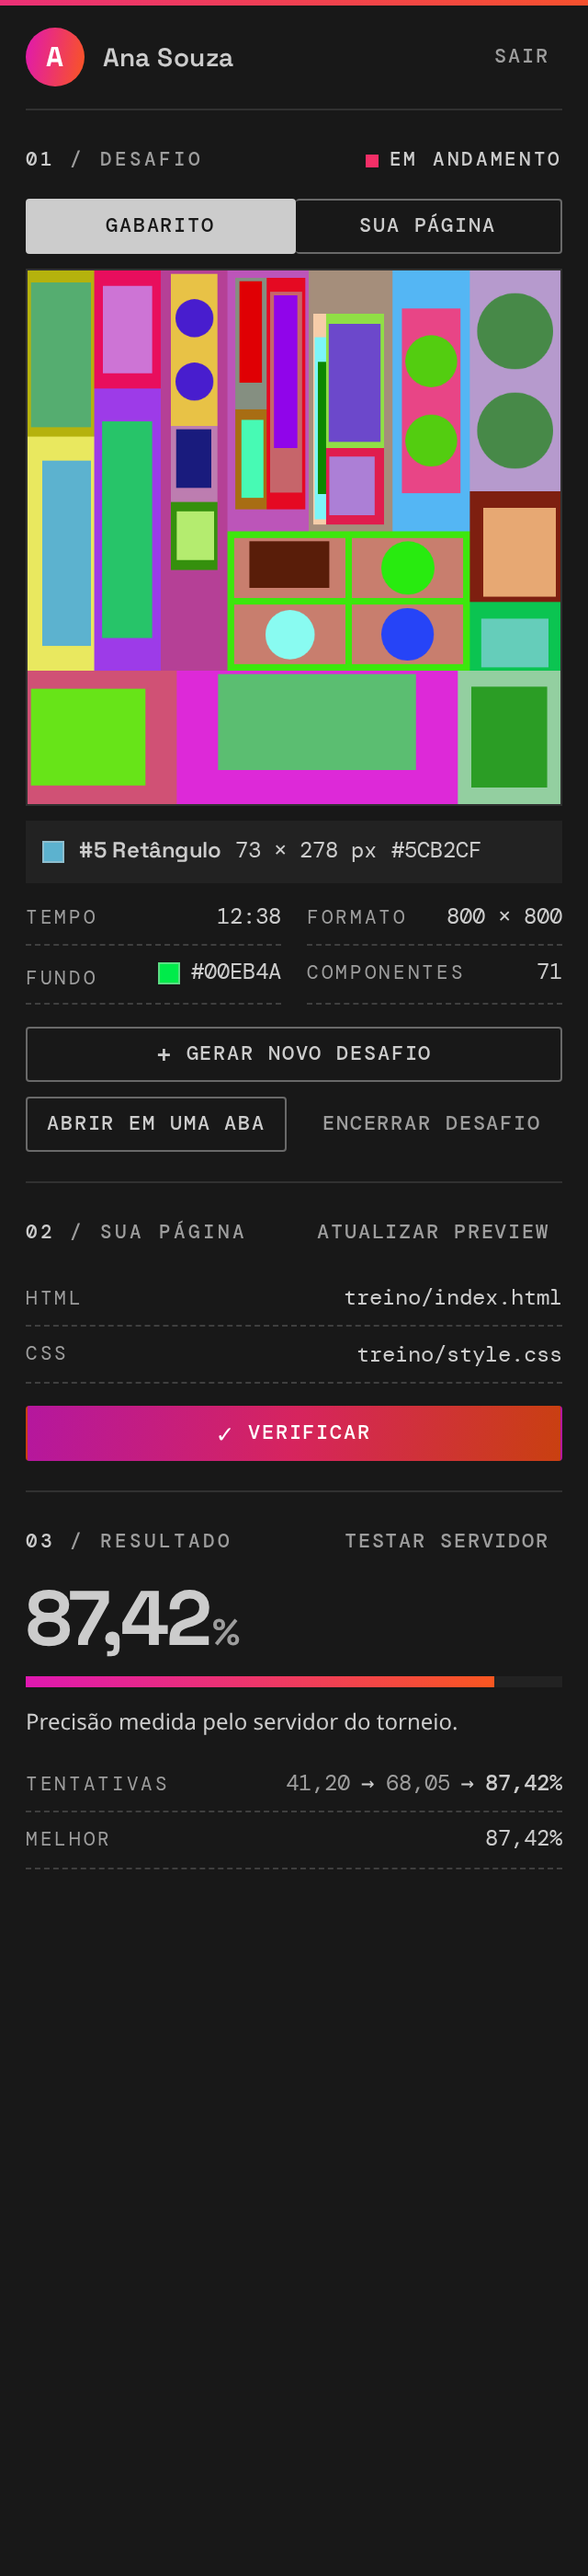
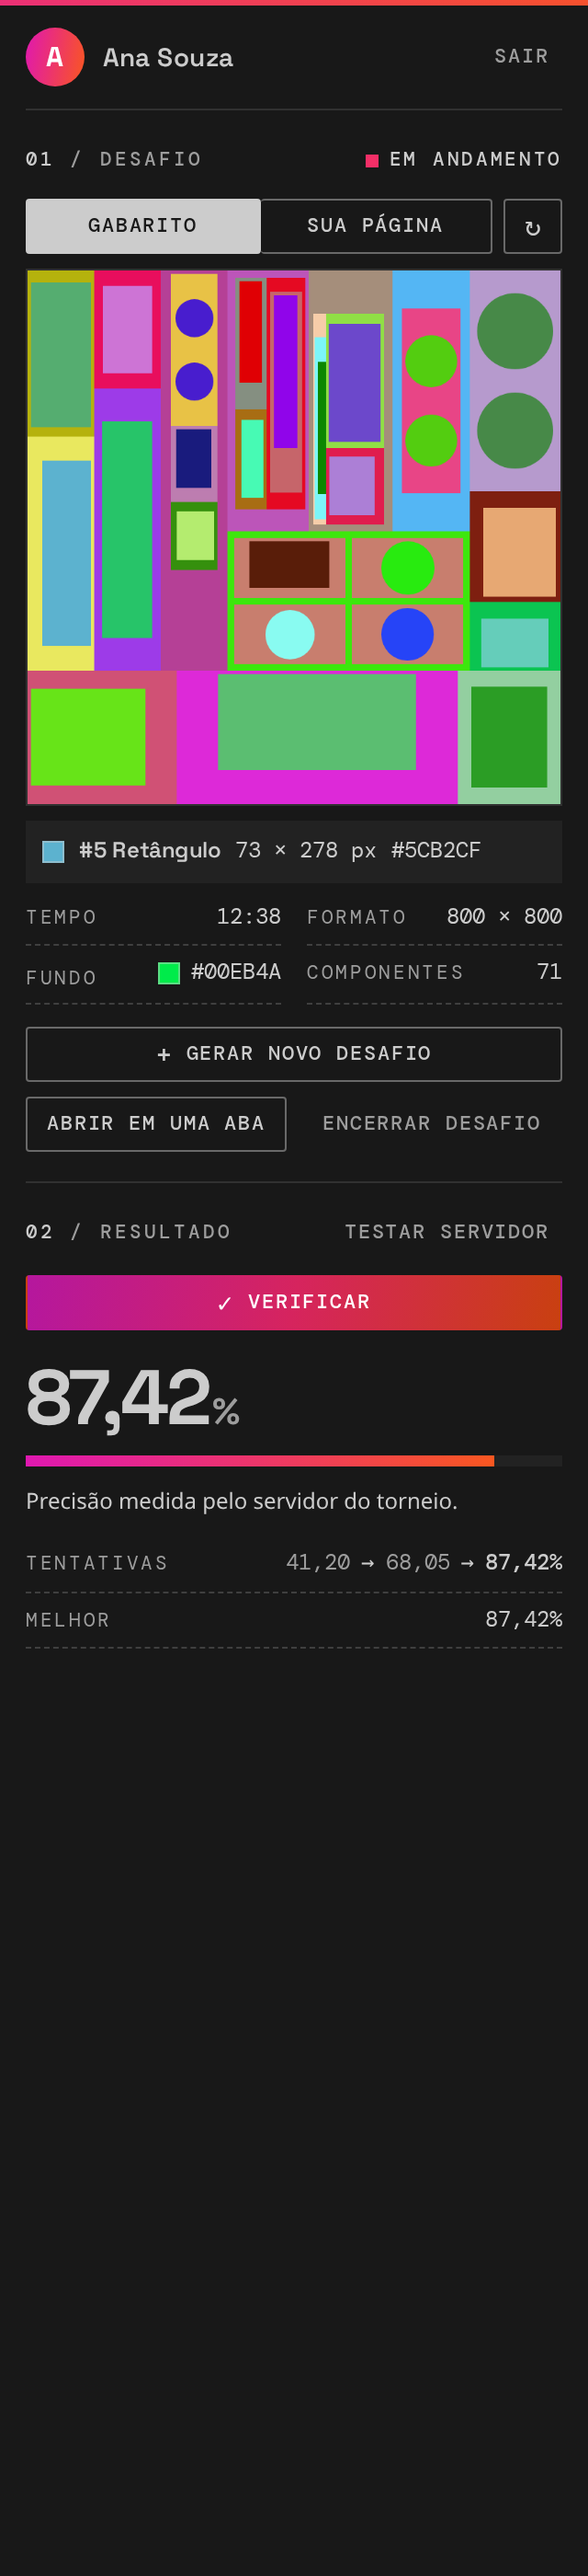
feat: a página do aluno atualiza enquanto ele digita
A página do aluno acompanha a digitação, meio segundo depois da última
tecla, sem precisar salvar. O Atualizar preview virou o ↻ ao lado de Sua
página, para quando demorar. As linhas com os caminhos de index.html e
style.css saíram: o Resultado só avisa quando falta um deles, e os caminhos
ficam na dica do botão Sua página.

diff --git a/src/web/webview/html.ts b/src/web/webview/html.ts
@@ -478,11 +478,26 @@ export function obterHtmlWebview(
        dois, no mesmo lugar, mostra onde eles diferem. */
     .vistas {
       display: flex;
+      gap: 6px;
       margin-bottom: 8px;
+    }
+
+    .vistas .modos {
+      flex: 1 1 auto;
+      display: flex;
     }
 
     .vistas .modo {
       flex: 1 1 0;
+    }
+
+    /* A página já atualiza enquanto o aluno digita; o botão é para quando
+       demorar. */
+    button.atualizar {
+      flex: 0 0 32px;
+      padding: 0;
+      font-size: 15px;
+      letter-spacing: 0;
     }
 
     .canvas-desafio .preview {
@@ -556,13 +571,9 @@ export function obterHtmlWebview(
       color: var(--texto);
     }
 
-    .caminho {
-      overflow: hidden;
-      text-overflow: ellipsis;
-      white-space: nowrap;
-    }
-
     .falta {
+      margin: 0 0 4px;
+      font-size: 12px;
       color: var(--erro);
     }
 
@@ -612,6 +623,18 @@ export function obterHtmlWebview(
 
     .nota {
       margin-bottom: 10px;
+    }
+
+    .nota.resultado {
+      margin-top: 16px;
+    }
+
+    .linha {
+      margin-top: 12px;
+    }
+
+    .nota.resultado + .linha {
+      margin-top: 0;
     }
 
     .valor-nota {
@@ -685,9 +708,12 @@ export function obterHtmlWebview(
       <h2 class="rotulo"><span class="numero">01</span> / Desafio</h2>
       <span class="selo" id="seloDesafio" data-estado="vazio">Sem desafio</span>
     </div>
-    <div class="modos vistas" id="vistas" role="group" aria-label="O que mostrar no quadro" hidden>
-      <button type="button" class="modo" data-vista="gabarito" aria-pressed="true">Gabarito</button>
-      <button type="button" class="modo" data-vista="pagina" aria-pressed="false">Sua página</button>
+    <div class="vistas" id="vistas" hidden>
+      <div class="modos" role="group" aria-label="O que mostrar no quadro">
+        <button type="button" class="modo" data-vista="gabarito" aria-pressed="true">Gabarito</button>
+        <button type="button" class="modo" id="botaoVistaPagina" data-vista="pagina" aria-pressed="false">Sua página</button>
+      </div>
+      <button type="button" id="botaoAtualizarPreview" class="secundario atualizar" title="Atualizar a sua página agora. Ela já atualiza sozinha enquanto você digita." aria-label="Atualizar a sua página">↻</button>
     </div>
     <div class="canvas-desafio" id="quadroDesafio" data-vista="gabarito">
       <canvas id="canvasAlvo" width="960" height="540"></canvas>
@@ -709,32 +735,26 @@ export function obterHtmlWebview(
     </div>
   </section>
 
-  <section class="bloco surge" style="--ordem: 2" aria-label="Sua página">
+  <section class="bloco surge" style="--ordem: 2" aria-label="Resultado">
     <div class="cabecalho">
-      <h2 class="rotulo"><span class="numero">02</span> / Sua página</h2>
-      <button id="botaoAtualizarPreview" class="discreto" title="Relê os arquivos sem salvar">Atualizar preview</button>
+      <h2 class="rotulo"><span class="numero">02</span> / Resultado</h2>
+      <button id="botaoTestarConexao" class="discreto" title="Confere a sessão no servidor">Testar servidor</button>
     </div>
-    <dl class="dados" id="listaWorkspace">
-      <div><dt>HTML</dt><dd id="arquivoHtml">--</dd></div>
-      <div><dt>CSS</dt><dd id="arquivoCss">--</dd></div>
-    </dl>
+    <div id="avisoArquivos" hidden>
+      <p class="falta" id="textoArquivos"></p>
+      <div class="acoes">
+        <button id="botaoCriarArquivos" class="largo secundario arquivos">Criar index.html e style.css</button>
+      </div>
+    </div>
     <div
       id="quadroAvaliacao"
       class="preview-avaliacao"
       aria-hidden="true"
     ></div>
     <div class="acoes">
-      <button id="botaoCriarArquivos" class="largo secundario arquivos" hidden>Criar index.html e style.css</button>
       <button id="botaoVerificar" class="largo principal" disabled><span class="simbolo" id="simboloVerificar" aria-hidden="true">✓</span>Verificar</button>
     </div>
-  </section>
-
-  <section class="bloco surge" style="--ordem: 3" aria-label="Resultado">
-    <div class="cabecalho">
-      <h2 class="rotulo"><span class="numero">03</span> / Resultado</h2>
-      <button id="botaoTestarConexao" class="discreto" title="Confere a sessão no servidor">Testar servidor</button>
-    </div>
-    <div class="nota" id="notaResultado" hidden>
+    <div class="nota resultado" id="notaResultado" hidden>
       <strong class="valor-nota" id="valorNota"></strong>
       <div class="barra-nota" aria-hidden="true"><span id="barraNota"></span></div>
     </div>

diff --git a/src/web/webview/app.ts b/src/web/webview/app.ts
@@ -107,8 +107,11 @@ const valorComponentes = document.getElementById(
 const detalheComponente = document.getElementById(
   "detalheComponente",
 ) as HTMLDivElement;
-const arquivoHtml = document.getElementById("arquivoHtml") as HTMLElement;
-const arquivoCss = document.getElementById("arquivoCss") as HTMLElement;
+const avisoArquivos = document.getElementById("avisoArquivos") as HTMLElement;
+const textoArquivos = document.getElementById("textoArquivos") as HTMLElement;
+const botaoVistaPagina = document.getElementById(
+  "botaoVistaPagina",
+) as HTMLButtonElement;
 const canvasPreviewAluno = document.getElementById(
   "canvasPreviewAluno",
 ) as HTMLCanvasElement;
@@ -519,40 +522,26 @@ function criarMedida(texto: string): HTMLSpanElement {
   return medida;
 }
 
-function renderizarArquivo(
-  campo: HTMLElement,
-  existe: boolean,
-  caminho: string,
-): void {
-  campo.classList.toggle("falta", !existe);
-  campo.title = existe ? caminho : "";
-  if (!existe) {
-    campo.textContent = "não encontrado";
-    return;
-  }
-
-  // O caminho inteiro fica na dica; aqui, só a pasta e o arquivo.
-  const curto = document.createElement("span");
-  curto.className = "caminho";
-  curto.textContent = caminho.split(/[\\/]/).filter(Boolean).slice(-2).join("/");
-  campo.replaceChildren(curto);
-}
-
 function renderizarWorkspace(
   resumoWorkspace: ResumoWorkspaceRecebido,
 ): void {
-  renderizarArquivo(
-    arquivoHtml,
-    resumoWorkspace.temArquivoHtml,
-    resumoWorkspace.caminhoHtml,
-  );
-  renderizarArquivo(
-    arquivoCss,
-    resumoWorkspace.temArquivoCss,
-    resumoWorkspace.caminhoCss,
-  );
-  botaoCriarArquivos.hidden =
-    resumoWorkspace.temArquivoHtml && resumoWorkspace.temArquivoCss;
+  // Os arquivos só aparecem quando falta algum; os caminhos ficam na dica
+  // do botão Sua página.
+  const faltando = [
+    resumoWorkspace.temArquivoHtml ? "" : "index.html",
+    resumoWorkspace.temArquivoCss ? "" : "style.css",
+  ].filter(Boolean);
+  avisoArquivos.hidden = faltando.length === 0;
+  textoArquivos.textContent =
+    faltando.length === 2
+      ? "Faltam index.html e style.css na pasta aberta."
+      : `Falta ${faltando[0]} na pasta aberta.`;
+  botaoVistaPagina.title = [
+    resumoWorkspace.temArquivoHtml ? resumoWorkspace.caminhoHtml : "",
+    resumoWorkspace.temArquivoCss ? resumoWorkspace.caminhoCss : "",
+  ]
+    .filter(Boolean)
+    .join("\n");
   try {
     const { largura, altura } = dimensoesDoDesafio();
     montarPaginaAluno(

diff --git a/src/web/provider/provedor-barra-lateral.ts b/src/web/provider/provedor-barra-lateral.ts
@@ -40,6 +40,8 @@ const CRIAR_DINAMICA = "Criar dinâmica de treino";
 const ABRIR_PASTA = "Abrir pasta";
 const VER_EXTENSOES = "Ver extensões";
 const CADASTRAR = "Cadastrar";
+// Espera depois da última tecla antes de redesenhar a página do aluno.
+const ESPERA_DIGITACAO_MS = 500;
 // Tamanho dos arquivos criados antes do primeiro desafio (o do gerador).
 const LARGURA_PADRAO = 800;
 const ALTURA_PADRAO = 800;
@@ -76,6 +78,8 @@ export class ProvedorBarraLateralFlexBox implements vscode.WebviewViewProvider {
 
   // Criada na primeira vez que o aluno abre o gabarito em uma aba.
   private painelGabarito?: PainelGabarito;
+
+  private atualizacaoAgendada?: ReturnType<typeof setTimeout>;
 
   // Precisões das correções do desafio atual, da primeira à última.
   private historicoNotas: number[] = [];
@@ -510,6 +514,18 @@ export class ProvedorBarraLateralFlexBox implements vscode.WebviewViewProvider {
     return resumo.temArquivoHtml || resumo.temArquivoCss
       ? resumo.htmlPreview
       : undefined;
+  }
+
+  /**
+   * A página do aluno acompanha a digitação: várias teclas seguidas viram uma
+   * só atualização, meio segundo depois da última.
+   */
+  public agendarAtualizacaoPreview(): void {
+    clearTimeout(this.atualizacaoAgendada);
+    this.atualizacaoAgendada = setTimeout(() => {
+      this.atualizacaoAgendada = undefined;
+      void this.atualizarPreviewWorkspace();
+    }, ESPERA_DIGITACAO_MS);
   }
 
   public async atualizarPreviewWorkspace(): Promise<void> {

diff --git a/src/web/test/suite/provedorBarraLateral.test.ts b/src/web/test/suite/provedorBarraLateral.test.ts
@@ -540,6 +540,22 @@ suite("Provedor da barra lateral", () => {
     assert.strictEqual(estadosBarra[estadosBarra.length - 1]?.precisao, undefined);
   });
 
+  test("junta as teclas seguidas numa só atualização da página do aluno", async () => {
+    const provedor = criarProvedorParaTeste([]);
+    let atualizacoes = 0;
+    provedor.atualizarPreviewWorkspace = async () => {
+      atualizacoes++;
+    };
+
+    provedor.agendarAtualizacaoPreview();
+    provedor.agendarAtualizacaoPreview();
+    provedor.agendarAtualizacaoPreview();
+    assert.strictEqual(atualizacoes, 0, "Não atualiza a cada tecla.");
+    await new Promise((resolver) => setTimeout(resolver, 700));
+
+    assert.strictEqual(atualizacoes, 1);
+  });
+
   test("reenvia a mesma página depois de uma correção que falhou", async () => {
     mockarConfiguracaoServidorValida();
     let correcoes = 0;

diff --git a/src/web/extension.ts b/src/web/extension.ts
@@ -70,6 +70,16 @@ export async function activate(context: vscode.ExtensionContext) {
         void provedor.atualizarPreviewWorkspace();
       }
     }),
+    // Sem precisar salvar: a página do aluno atualiza enquanto ele digita.
+    vscode.workspace.onDidChangeTextDocument((evento) => {
+      if (
+        evento.contentChanges.length > 0 &&
+        ehDocumentoDeTreino(evento.document) &&
+        authService.isAutenticado()
+      ) {
+        provedor.agendarAtualizacaoPreview();
+      }
+    }),
   );
 
   context.subscriptions.push(

diff --git a/src/web/webview/painelGabarito.ts b/src/web/webview/painelGabarito.ts
@@ -33,8 +33,8 @@ const DURACAO_SELECAO_MS = 2500;
 
 const AJUDA: Record<Modo, string> = {
   gabarito: "Clique num componente para destacá-lo e num valor para copiá-lo.",
-  sobreposto: "Arraste o controle para comparar. A sua página atualiza ao salvar.",
-  lado: "A sua página atualiza ao salvar.",
+  sobreposto: "Arraste o controle para comparar. A sua página atualiza enquanto você digita.",
+  lado: "A sua página atualiza enquanto você digita.",
 };
 
 const vscode = acquireVsCodeApi();

diff --git a/README.md b/README.md
@@ -18,7 +18,7 @@ O treino segue as condições do torneio: a extensão mostra as medidas e as cor
 
 - Gera desafios aleatórios de 800 × 800 px, com cabeçalhos, colunas, grades de cartões e fileiras de círculos.
 - Mostra o tamanho e a cor de cada componente do gabarito, na barra lateral ou em uma aba do editor.
-- Atualiza a pré-visualização da sua página sempre que você salva os arquivos.
+- Atualiza a pré-visualização da sua página enquanto você digita, sem precisar salvar.
 - Compara o gabarito com a sua página, sobrepostos ou lado a lado.
 - Envia a sua página para o servidor do torneio corrigir e mostra a precisão oficial. As correções de treino não entram no ranking.
 - Como a extensão oficial do torneio, não aceita IA durante o desafio: não deixa começar nem corrigir com extensões de IA habilitadas (Copilot, Claude Code, Codex, Continue, Cline e outras) e invalida o desafio se uma delas for habilitada ou se o código for alterado fora do editor (veja [As regras do desafio](#as-regras-do-desafio)).
@@ -70,7 +70,7 @@ Se você já tinha o projeto, rode `git pull` e `npm install` antes. Para gerar 
 1. **Gerar novo desafio** cria uma imagem nova. Gere quantas quiser até achar um desafio para treinar; o cronômetro recomeça a cada desafio.
 2. Recrie a imagem em `index.html` e `style.css`. Pode usar flexbox, grid ou `position`: o que conta é o resultado na tela.
 3. Para consultar medidas e cores, clique em um componente do gabarito na barra lateral, ou use **Abrir em uma aba** para ver todos de uma vez.
-4. Salve os arquivos para atualizar a pré-visualização e a comparação. Na barra lateral, **Gabarito | Sua página** alterna os dois no mesmo quadro, o que deixa à vista onde eles diferem.
+4. A pré-visualização e a comparação acompanham o que você digita, sem precisar salvar. Na barra lateral, **Gabarito | Sua página** alterna os dois no mesmo quadro, o que deixa à vista onde eles diferem.
 5. Clique em **Verificar**. A barra lateral mostra as etapas e, no fim, a **precisão oficial do servidor**.
 6. Ajuste e verifique de novo. Abaixo da nota ficam as últimas tentativas do desafio e a melhor delas. Se a sua página não mudou desde a última verificação, a extensão não a reenvia: ela repete a nota e avisa.
 7. **Encerrar desafio** congela o cronômetro quando você terminar.
@@ -90,7 +90,7 @@ Salvar no editor, inclusive com formatação ao salvar, e criar os arquivos pelo
 
 ## A barra lateral
 
-A barra lateral tem três partes: **Desafio** (o quadro, as medidas e os dados do gabarito), **Sua página** (os arquivos e o **Verificar**) e **Resultado** (a precisão e as tentativas).
+A barra lateral tem duas partes: **Desafio** (o quadro, que alterna entre o gabarito e a sua página, as medidas e os dados do gabarito) e **Resultado** (o **Verificar**, a precisão e as tentativas). Se faltar o `index.html` ou o `style.css` na pasta aberta, o Resultado avisa e oferece criá-los. O caminho dos arquivos usados aparece ao parar o mouse sobre **Sua página**.
 
 | Botão | O que faz |
 |---|---|
@@ -99,7 +99,7 @@ A barra lateral tem três partes: **Desafio** (o quadro, as medidas e os dados d
 | Encerrar desafio | Congela o cronômetro do desafio atual |
 | Testar servidor | Confere se a sua sessão está valendo no servidor |
 | Abrir em uma aba | Abre o gabarito, as medidas e a comparação em uma aba do editor |
-| Atualizar preview | Relê `index.html` e `style.css` sem precisar salvar |
+| ↻ (ao lado de Sua página) | Atualiza a sua página na hora. Ela já atualiza sozinha enquanto você digita; use se demorar |
 | Criar index.html e style.css | Aparece quando falta algum dos dois; cria só o que falta, sem sobrescrever nada |
 | Ver extensões | Aparece no aviso de extensões de IA; abre a página delas para você desabilitar |
 | Verificar | Mede a sua página e envia para a correção |
@@ -117,7 +117,7 @@ Abra pelo botão **Abrir em uma aba**, pelo atalho **Abrir gabarito em uma aba**
 
 O botão **Componentes** mostra ou esconde a lista em qualquer modo.
 
-A sua página aparece na aba exatamente como ela é medida para a correção, e é atualizada quando você salva os arquivos.
+A sua página aparece na aba exatamente como ela é medida para a correção, e acompanha o que você digita.
 
 <p align="center">
   <img src="docs/imagens/aba-gabarito.png" alt="Aba do gabarito no modo Gabarito, com a lista de componentes e as medidas de cada um" width="900">

diff --git a/CHANGELOG.md b/CHANGELOG.md
@@ -13,6 +13,7 @@ As mudanças de cada versão do FlexBox Trainer.
 - Abaixo da nota, as últimas tentativas do desafio e a melhor delas.
 - A barra de status mostra o tempo e a última precisão; clicar nela abre a barra lateral.
 - Antes do primeiro desafio, o quadro diz como começar.
+- A sua página atualiza enquanto você digita, sem precisar salvar. O **Atualizar preview** virou o ↻ ao lado de **Sua página**, para quando demorar, e as linhas dos arquivos deram lugar a um aviso que só aparece quando falta o `index.html` ou o `style.css`.
 - Na aba do gabarito, um componente por linha (a amostra é redonda nos círculos), e o botão **Componentes** esconde a lista; no modo Lado a lado ela começa escondida.
 - Ícone novo na barra de atividades, no formato do ícone da extensão, e o ícone colorido na aba do gabarito.
 
